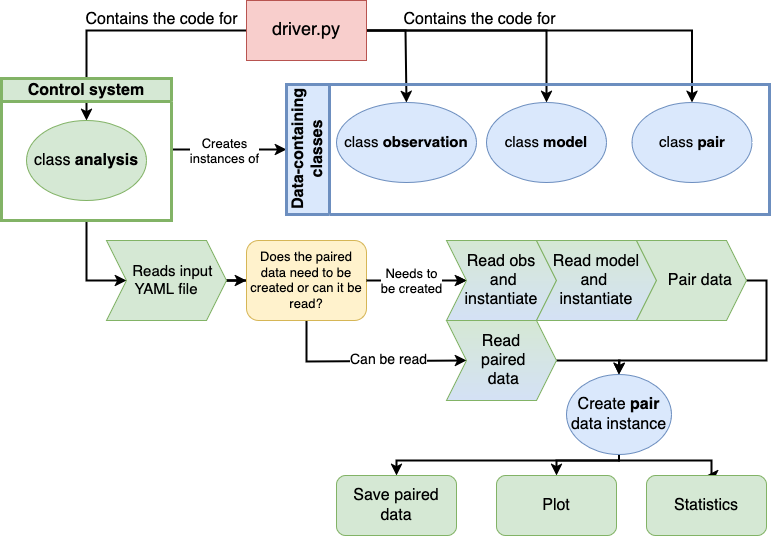
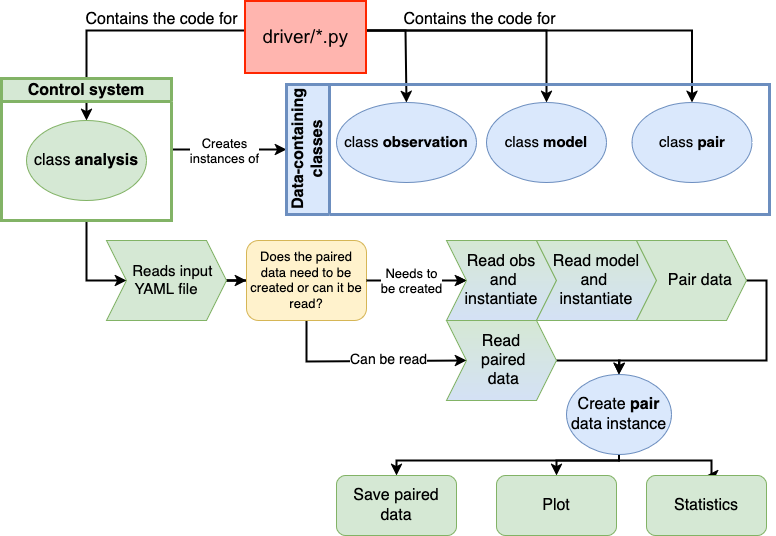
Update developer guide with more instructions on creating developer environments

Changed region(s): [[0.3093, 0.0, 0.4948, 0.1493]]

diff --git a/docs/develop/developers_guide.rst b/docs/develop/developers_guide.rst
@@ -1,42 +1,25 @@
 Developer's Guide
 =================
 
-Description of Branches
------------------------
+The instructions in this Developer's Guide are only for developers. If you are a user of
+MELODIES MONET, please follow the instructions on :doc:`../getting_started/installation` instead to setup your 
+environment for running MELODIES MONET.
 
-There are several primary repository branches
-for specific development tracks.
+If you want to begin developing MELODIES MONET, you will need to set up a new development environment. To set up a
+development environment where you only want to test development features, but not contribute new code back follow 
+the instructions below under `Setting up Your Development Environment for Testing Only`_. 
+Please use our code that is under development with caution because this code is still being tested prior to release. To
+set up a development environment where you want to contribute code back to either MONET, MONETIO, and/or MELODIES MONET
+repositories, follow instructions on `Setting up Your Development Environment to Contribute Code`_. For special
+considerations for contributing code to our ReadTheDocs page, see `Contributions to the Docs`_ section.
 
-main
-____
-This is the stable release branch.
-It is updated from the *develop* branch
-and tagged prior to each release.
-The melodies-monet conda package is created from *main*.
-
-develop
-_______
-This is the parent branch in which
-to consolidate the various development tracks.
-General practice, when working within the central repository,
-is to create a working branch, branched from *develop*,
-with a naming convention such as *develop_topic*.
-The *develop_topic* branches are merged back to *develop*
-via pull requests.
-Forks of the central repository should follow the same
-branching conventions.
-
-.. _dev-install-instructions:
-
-Setting up your development environment
----------------------------------------
-
-In order to prepare for developing MELODIES MONET,
-we clone the repositories and create a conda environment that references them.
+Prior to setting up your new development environment, please read through our `Description of Branches`_ to 
+understand which branches are available and our `Code workflow`_ sections to better understand how the 
+MELODIES MONET code is structured.
 
 .. note::
    If you are installing MELODIES MONET on NCAR Casper or NOAA Hera
-   follow these machine specific instructions instead.
+   please refer to these machine specific instructions.
 
    - :ref:`NCAR Casper <appendix/machine-specific-install:NCAR HPC Derecho/Casper>`
    - :ref:`NOAA Hera <appendix/machine-specific-install:NOAA HPC Hera>`
@@ -46,78 +29,160 @@ we clone the repositories and create a conda environment that references them.
    If you prefer, you can also clone the monet, monetio, and
    MELODIES-MONET repositories using HTTPS [#clone]_.
 
-To install MELODIES MONET on your laptop or on HPC machines in general follow 
-these instructions:
- 
+Description of Branches
+-----------------------
+
+This section describes the branches on our GitHub repository: `<https://github.com/NCAR/MELODIES-MONET>`__. 
+
+There are several primary repository branches
+for specific development tracks.
+
+main
+____
+This is the stable release branch.
+It is updated from the **develop** branch
+and tagged prior to each release.
+The melodies-monet conda package is created from **main**.
+We do not accept updates directly to this branch from the community.
+If you want to contribute updates, please submit a pull request to our **develop** or **develop_project** branches.
+
+develop
+_______
+This is the parent branch in which
+to consolidate the various development tracks.
+If you want to contribute updates, please follow the instructions below
+to fork our GitHub repository and submit a pull request to our **develop** branch with your changes.
+
+develop_project
+_______________
+Sometimes temporary project branches are created from the **develop** branch
+for the development team to collaboratively develop code and these are named as our 
+**develop_project** branches. Make sure to consult with someone on the development team 
+prior to using these **develop_project** branches as they do not always reflect our latest code updates.
+
+Code workflow
+-------------
+
+The way the code is constructed (see :doc:`../getting_started/software_architecture`)
+is based largely on code contained within the ``driver`` folder.
+The main class, contained in ``driver/_analysis.py``, is ``analysis``.
+``analysis`` is in charge of creating and managing all other classes.
+The driver folder also contains the ``observation``, ``model`` and ``pair`` classes,
+in the ``driver/_observation.py``, ``driver/_model.py``, and ``driver/_pair.py`` files, respectively,
+using the tools that can be found in the ``util`` folder.
+Even though, right now, the driver code is quite large,
+we are working on reducing its complexity and,
+as far as possible, managing most with specific utilities.
+
+.. figure:: ../_static/melodies_monet_code_workflow.png
+   :alt: generalized workflow of the code.
+   
+   Generalized structure of the code and its workflow.
+
+.. _dev-install-instructions:
+
+Setting up Your Development Environment for Testing Only
+--------------------------------------------------------
+
+To set up a development environment where you only want to test development features, but not contribute new code back
+follow these instructions. Note please use our development code with caution as this code is under development and as
+such is still being tested. We often update MONET, MONETIO, and MELODIES MONET together, so if you use the develop 
+branch of one, you should use the develop branch of all of them for consistency.
+
 (a) Set up a conda environment with all the dependencies, including MONET and 
     MONETIO::
 
-       $ conda create --name melodies-monet python=3.11
+       $ conda create --name melodies-monet-dev-test python=3.11
        $ conda activate melodies-monet
        $ conda install -y -c conda-forge pyyaml pandas=2 monet monetio \
          "netcdf4<1.7" "setuptools<70" "dask>=2024.2.1" wrf-python \
          metpy windrose statannotations \
          typer rich pooch jupyterlab
 
-(b) Clone [#clone]_ and link the latest development versions of MONET and MONETIO from GitHub to
-    your conda environment::
+(b) Now, install the **develop** branch of **MELODIES MONET** to the environment::
 
-       $ git clone [email redacted]:noaa-oar-arl/monet.git
-       $ cd monet
-       $ git checkout develop
-       $ pip install --force-reinstall --no-deps --editable .
+    $ pip install --force-reinstall --no-deps https://github.com/NCAR/MELODIES-MONET/archive/develop.zip
 
-       $ git clone [email redacted]:noaa-oar-arl/monetio.git
-       $ cd monetio
-       $ git checkout develop
-       $ pip install --force-reinstall --no-deps --editable .
+(c) Now, install the **develop** branch of **MONET** to the environment::
 
+    $ pip install --force-reinstall --no-deps https://github.com/NOAA-OAR-ARL/MONET/archive/develop.zip
 
-How to incorporate updates to MELODIES MONET
---------------------------------------------
+(c) Now, install the **develop** branch of **MONETIO** to the environment::
 
-In order to contribute code to MELODIES MONET, you will need to fork the
-repository, make changes on your fork, and submit a pull request with your
-changes. 
+    $ pip install --force-reinstall --no-deps https://github.com/NOAA-OAR-ARL/MONETIO/archive/develop.zip
 
-(a) Fork the GitHub repository to your own GitHub account
-    using the "Fork" button near the top right:
+(d) Now when you activate your **melodies-monet-dev-test** environment you will be using the develop branches of 
+    MONET, MONETIO, and MELODIES MONET. If updates are made to any of these branches, you only need to re-run steps 
+    b through c, with your environment activated to use the latest updates.
 
-    https://github.com/NCAR/MELODIES-MONET
+Setting up Your Development Environment to Contribute Code
+----------------------------------------------------------
+
+To set up a development environment where you can contribute code back to either MONET, MONETIO, and/or MELODIES MONET
+repositories, follow these instructions. These instructions assume you may contribute code back to all three of these
+repositories. If you are only planning on submitting code to say MONETIO and MELODIES MONET, but not MONET, you can 
+follow the instructions below for setting up your environment with MONETIO and MELODIES MONET and the instructions in
+`Setting up Your Development Environment for Testing Only`_ for MONET.
+
+In order to contribute code to MELODIES MONET, MONET, or MONETIO, you will need to fork these repositories, make 
+changes on your fork, and submit a pull request with your changes to the develop branches.
+
+(a) Set up a conda environment with all the dependencies, including MONET and 
+    MONETIO::
+
+       $ conda create --name melodies-monet-dev-update python=3.11
+       $ conda activate melodies-monet
+       $ conda install -y -c conda-forge pyyaml pandas=2 monet monetio \
+         "netcdf4<1.7" "setuptools<70" "dask>=2024.2.1" wrf-python \
+         metpy windrose statannotations \
+         typer rich pooch jupyterlab
+
+(b) Fork the GitHub repositories to your own GitHub account
+    using the "Fork" button near the top right for the following repositories:
+
+    * https://github.com/NCAR/MELODIES-MONET
+    * https://github.com/NOAA-OAR-ARL/MONET
+    * https://github.com/NOAA-OAR-ARL/MONETIO
 
     .. note::
-       You can pull updates from the main NOAA repository
-       by using the "Fetch Upstream" button on your fork.
-       Alternatively: [#clone]_ ::
+       You can pull updates from the main NCAR repository
+       by using the "Sync fork" button on your fork on the develop branch.
+       Alternatively, you can "Fetch Upstream" via the command line: [#clone]_ ::
 
           $ git remote add upstream [email redacted]:NCAR/MELODIES-MONET.git
-          $ git pull upstream main
-          $ git push origin main
+          $ git pull upstream develop
+          $ git push origin develop
 
-(b) Clone [#clone]_ and link the latest development version of the MELODIES MONET via your fork:: 
+(c) Clone [#clone]_ and link the latest development version of MELODIES MONET via your fork:
+    
     Navigate on your working machine
     to where you would like to keep the MELODIES-MONET code
     (e.g. in your work location) and clone [#clone]_ your fork::
 
        $ git clone [email redacted]:$GitHubUsername/$ForkName.git
 
-(c) Checkout the develop branch --- you need to do this with the remote branch
+    Checkout the develop branch --- you need to do this with the remote branch
     as well as create a local tracking branch::
 
        $ cd $ForkName
        $ git checkout origin/develop
-       $ git checkout develop
+       $ git checkout -b develop_new
        $ pip install --force-reinstall --no-deps --editable .
 
     Then all development work will be in the ``melodies_monet`` folder. ::
 
        $ cd melodies_monet
 
-(d) Make changes to your fork.
+(d) Repeat step c for MONET and MONETIO code repositories.
 
-(e) Submit a pull request back to the main MELODIES MONET repository with your
-    changes. 
+(d) Make changes and push these updates to your forks on GitHub::
 
+       $ git add [Your_Updated_File_Name]
+       $ git commit -m "A brief mesage about your update"
+       $ git push -u origin develop_new
+
+(e) Submit a pull request back to the main MELODIES MONET, MONET, and/or MONETIO repositories with your
+    changes to the **develop** branches. Be sure to include a thorough description of your changes.
 
 Contributions to the Docs
 -------------------------
@@ -187,21 +252,3 @@ to learn more about our current and future documentation plans.
       $ conda env create -f docs/environment-docs.yml
 
    to create a new conda environment (``melodies-monet-docs``).
-
-Code workflow
--------------
-
-The way the code is constructed (see :doc:`../getting_started/software_architecture`)
-is based largely on code contained within a driver (``driver.py``).
-The main class, contained in ``driver.py``, is ``analysis``.
-``analysis`` is in charge of creating and managing all other classes.
-This driver contains the ``observation``, ``model`` and ``pair`` classes,
-using the tools that can be found in ``util``.
-Even though, right now, the driver.py is quite large,
-we are working on reducing its complexity and,
-as far as possible, managing most with specific utilities.
-
-.. figure:: ../_static/melodies_monet_code_workflow.png
-   :alt: generalized workflow of the code.
-   
-   Generalized structure of the code and its workflow.

diff --git a/docs/getting_started/installation.rst b/docs/getting_started/installation.rst
@@ -36,6 +36,13 @@ Incompatibilities
 General instructions
 --------------------
 
+.. note::
+   If you are installing MELODIES MONET on NCAR Casper or NOAA Hera
+   please refer to these machine specific instructions.
+
+   - :ref:`NCAR Casper <appendix/machine-specific-install:NCAR HPC Derecho/Casper>`
+   - :ref:`NOAA Hera <appendix/machine-specific-install:NOAA HPC Hera>`
+
 If you are a user and are not planning to modify MELODIES MONET itself,
 installing it is relatively simple. There are two methods available.
 

diff --git a/docs/getting_started/software_architecture.rst b/docs/getting_started/software_architecture.rst
@@ -23,8 +23,8 @@ variety of observational datasets all within a common framework.
 How MELODIES MONET works
 ------------------------
 
-A single `driver file <https://github.com/NCAR/MELODIES-MONET/blob/main/melodies_monet/driver.py>`__. 
-includes the core code that "drives" MELODIES MONET. The driver file 
+`Driver files <https://github.com/NCAR/MELODIES-MONET/blob/develop/melodies_monet/driver/>`__ 
+includes the core code that "drives" MELODIES MONET. The driver files 
 initializes several classes as shown in the schematic below. 
 
 * **Analysis class** -- This class holds all information needed for the 
@@ -57,7 +57,7 @@ generalizable and easy to adjust figure, text, and mapping properties, so that
 **users can both produce hundreds of plots for quick diagnostic assessments and
 have the flexibility to create publication quality plots**. 
 
-The driver, input YAML file, and example run scripts (jupyter notebook 
+The driver files, input YAML file, and example run scripts (jupyter notebook 
 and bash) are configured in the same way to first define the analysis, model, 
 observation, and pairing classes and second to create the plots and calculate 
 the statistics. By maintaining a consistent structure for all of these files, 

diff --git a/docs/develop/contribute.rst b/docs/develop/contribute.rst
@@ -13,6 +13,5 @@ the contributions and support from you.
   to learn about current development plans.
 - Join an :ref:`Upcoming Workshop <getting_started/tutorials:Upcoming>`
   or check out :ref:`Past Workshops <getting_started/tutorials:Past>`.
-- See our developers guide, to learn 
-  :ref:`develop/developers_guide:How to incorporate updates to MELODIES MONET`.
+- See our :doc:`developers_guide` to learn how to contribute code.
 - Email [email redacted] with questions.